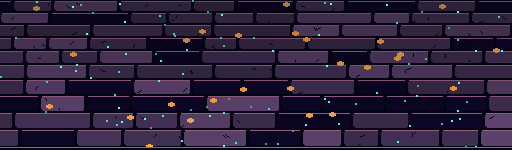
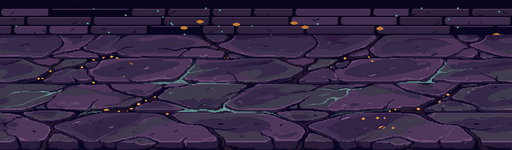
Refresh the fighting floors across all twelve stages

diff --git a/README.md b/README.md
@@ -58,7 +58,7 @@ Only these sprites are reused:
 - **UFO:** the saucer (cockpit layers, laser, muzzle, beach ball and shield) from Sproto-Arcade `art/attacks/player/higgsfield/saucer*`.
 - **Playable Sprotos:** six characters from the [Sproto-Fighter](https://github.com/crrreatorrr/Sproto-Fighter) fighters that have complete pose sets (`public/fighters/poses/`): **Sproto Sheriff** (`sproto3106`), **VAMP** (`vamp`), **Red Kev** (`guest09`), **Sprotel Bitcoin** (`guest10`), **Golden Sproto** (`rivet`) and **Dumpstar** (`dumpstar`), downscaled to 128². Each lobby slot starts on a different Sproto; if two players pick the same one, the duplicate gets a hue-shifted palette. Shadow Sprotos (the regular enemies) are darkened versions of the same six.
 
-- **Stages:** the scenery is Sproto Arcade's stage art (`art/level-01…10.jpg`, `art/rooftop-chase/01.webp`, `art/codebreak/shaft.webp`), scrolling at half speed. The Arcade floors are thin side-on strips, so `tools/build-backgrounds.py` draws each fighting floor as pixel art in a style that fits the stage (pier planks, dance floor, mossy slabs, ranch dirt, wet neon street, steel plates, flagstones, tiles, hatchery stone, asteroid rock, rooftop), coloured from that stage's own Arcade floor. Codebreak's floor is its shaft's circuit traces laid flat.
+- **Stages:** the half-speed scenery comes from Sproto Arcade (`art/level-01…10.jpg`, `art/rooftop-chase/01.webp`, and `art/codebreak/shaft.webp`). The shipped fighting floors in `public/assets/stages/` were generated with Higgsfield using each backdrop and original floor as references, then sized and color-matched for the game. `tools/build-backgrounds.py` regenerates the original procedural floor art and overwrites these assets.
 
 The weapons, items and effects are drawn in code (`public/js/render.js`). `tools/build-manifest.py` measures sprite bounds and hand positions and writes `public/js/manifest.js`.
 
